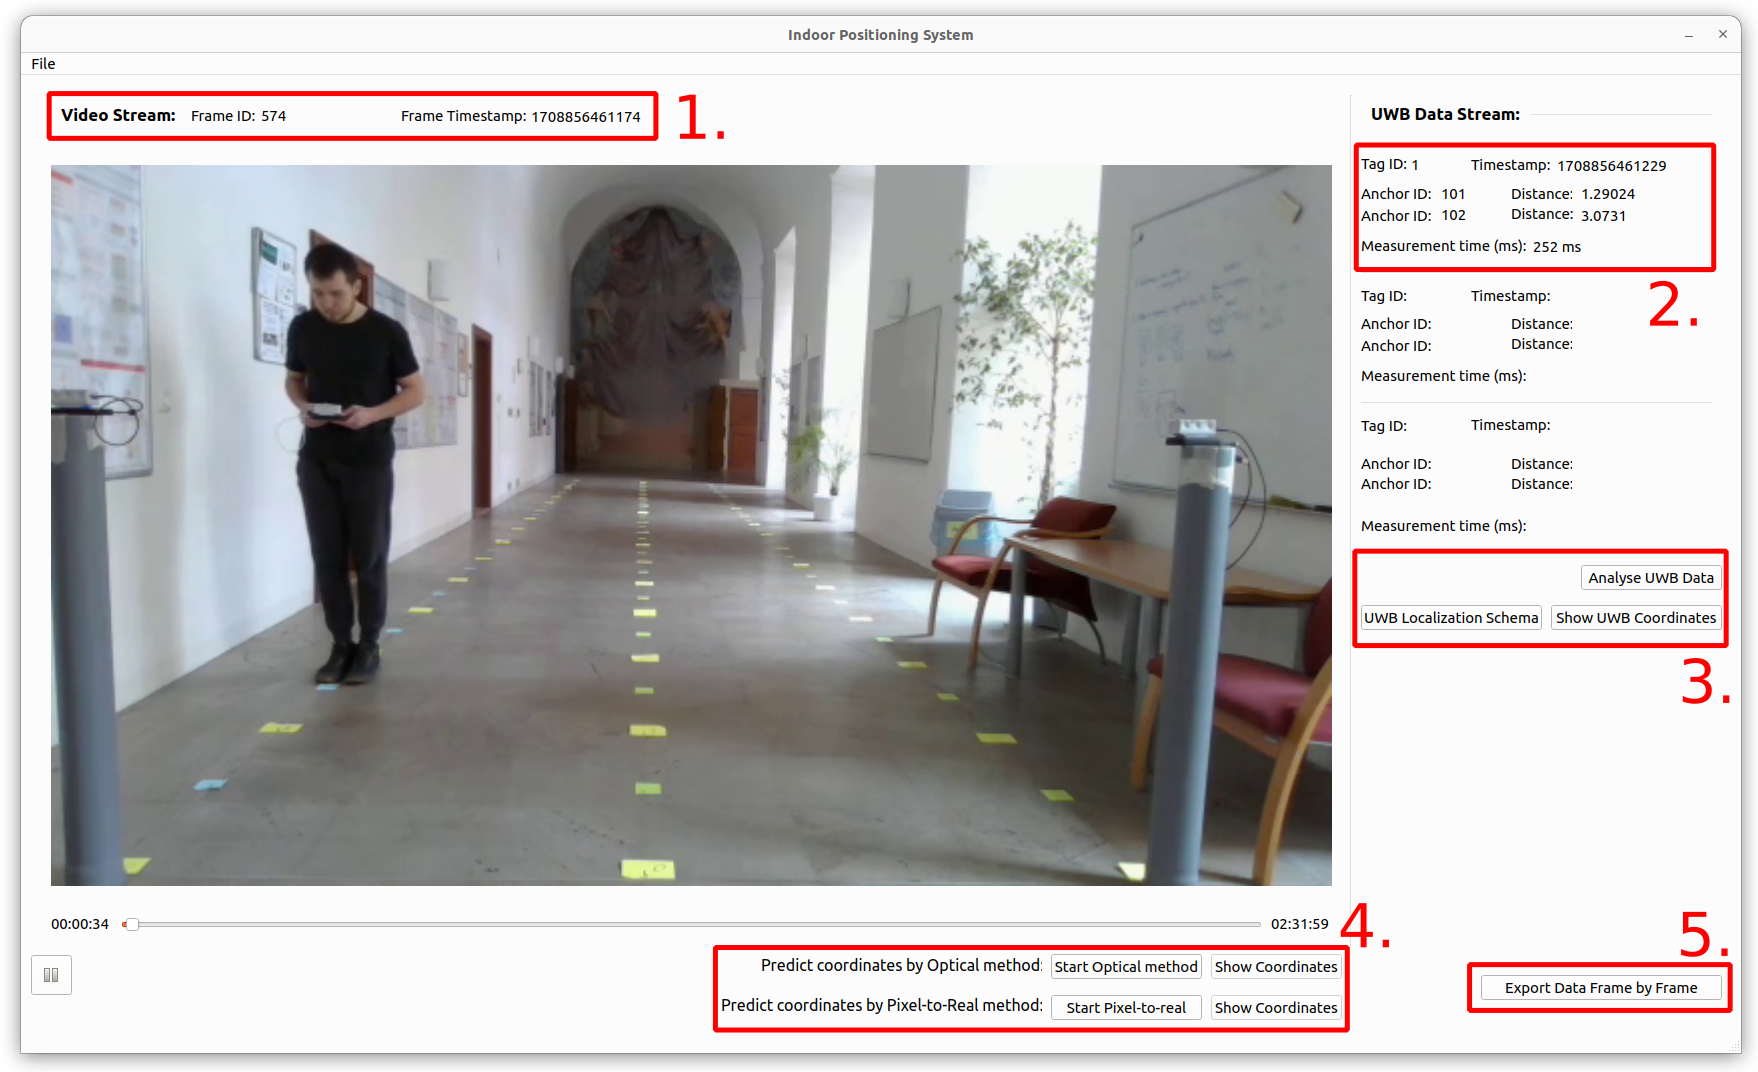
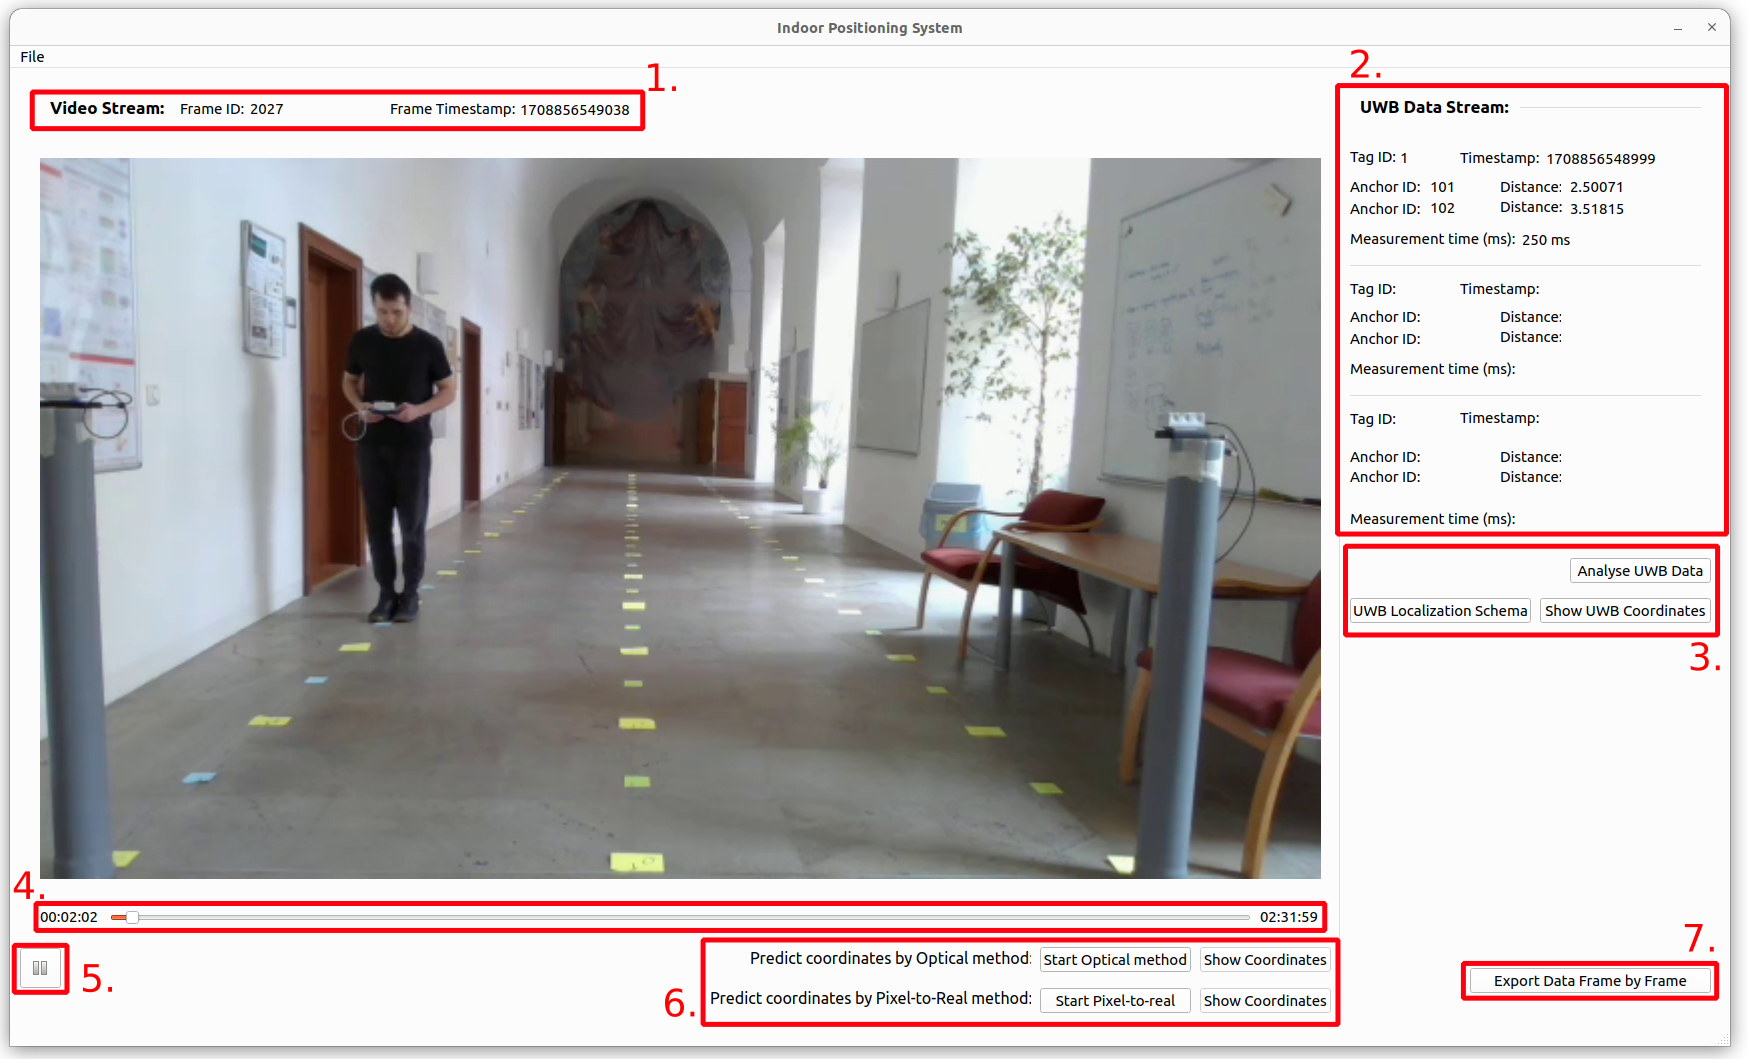
added all features for IPS

diff --git a/Wiki/Indoor-Positioning-System-(GUI).md b/Wiki/Indoor-Positioning-System-(GUI).md
@@ -95,9 +95,23 @@ To install the Main GUI application, follow these steps:
 - **Area 1**: represents the stream of video data, consisting of Frame ID and its timestamp
 - **Area 2**: represents the UWB data stream. Both Video and UWB streams are synchronized using the closest timestamps.
 - **Area 3**: dedicated to the UWB data. It allows for correcting the data by analyzing them and showing the estimated UWB coordinates.
-- **Area 4**: intended to run Pixel-to-Real and Optical methods and show their results.
-- **Area 5**: responsible for exporting the data. Note that this export process is very time-consuming. There is another option to export the data, which can be performed in the Data Analysis window.
+- **Area 4**: allows to navigate through the video; seek frame
+- **Area 5**: play / pause data stream
+- **Area 6**: intended to run Pixel-to-Real and Optical methods and show their results.
+- **Area 7**: responsible for exporting the data. Note that this export process is very time-consuming. There is another option to export the data, which can be performed in the Data Analysis window.
 ---
+
+### Show UWB coordinates
+
+- Coordinate window is shown automatically, once video and UWB data are loaded
+
+![UWB coordinates window](https://github.com/Razyapoo/Thesis-Documentation/blob/master/Archive/Documentation/Images%20for%20wiki/uwb_coordinates_window.png)
+
+- Top-down view (Localization schema)
+
+![UWB localization schema](https://github.com/Razyapoo/Thesis-Documentation/blob/master/Archive/Documentation/Images%20for%20wiki/uwb_localization_schema.png)
+
+   - Schema allows to **hover the mouse over the shapes** to see their coordinates!
 
 ### How to analyze UWB data (for its correction)
 
@@ -127,7 +141,7 @@ Common case:
 
 ![Anchor selection](https://github.com/Razyapoo/Thesis-Documentation/blob/master/Archive/Documentation/Images%20for%20wiki/data_analysis_anchor_selection.png)
 
-**NOTE:** in the current example, there will be only 1 tag and 2 anchors to choose from
+**NOTE:** In the current example, there will be only 1 tag and 2 anchors to choose from. In general, there can be more tags and anchors to choose from.
 
 - Tag
 
@@ -140,6 +154,11 @@ Common case:
 3. Split the dataset using rolling window (for standard rolling deviation)
 
 ![STD Rolling deviation](https://github.com/Razyapoo/Thesis-Documentation/blob/master/Archive/Documentation/Images%20for%20wiki/data_analysis_rolling_window.png)
+
+**NOTE:** Diagrams are interactive. Use the following shortcuts:
+   - ctrl + left mouse + "mouse move" - allows to pan a diagram view
+   - ctrl + mouse wheel - allows to zoom in / out a diagram
+   - hovering the mouse over the lines: shows timestamp (in hour:min:sec for better analysis) + UWB measurement recorded at that time  
 
 4. Set a threshold to identify **standing periods**
 
@@ -160,7 +179,7 @@ Common case:
 ![Polynomial regression](https://github.com/Razyapoo/Thesis-Documentation/blob/master/Archive/Documentation/Images%20for%20wiki/data_analysis_calculate_polyn_regres.png)
 
 
-7. Update UWB distances with corrected ones and export them for model training{#segment-export}
+7. Update UWB distances with corrected ones and export them for model training
 <a id="segment-export"></a>
 
 ![Segment representatives export](https://github.com/Razyapoo/Thesis-Documentation/blob/master/Archive/Documentation/Images%20for%20wiki/data_analysis_export.png)
@@ -180,15 +199,15 @@ Common case:
 - **"Load camera intrinsic params":** Select the folder with the intrinsic parameters for the camera. 
 - **"Load human detection model weights":** Select the folder with the weights (both .weights and .cfg together as a single package) for the human detection model. 
 
+**NOTE:** "Load human detection model weights" can be loaded only from "File" in the top menu. For safety reasons.
+
 2. Directly by running the methods. It will show pop-up window and require to load configuration files.
 
+![Run P2R and Opt methods](https://github.com/Razyapoo/Thesis-Documentation/blob/master/Archive/Documentation/Images%20for%20wiki/run_opt_p2r_methods.png)
 
+   - this will to start people detection and show dedicated windows with coordinates for each method
 
-### Show coordinates estimated by each method
-
-- Coordinate windows
-
-- Top-down view (Localization schema)
+    ![Run P2R and Opt methods result](https://github.com/Razyapoo/Thesis-Documentation/blob/master/Archive/Documentation/Images%20for%20wiki/rum_methods_result.png)
 
 ### Export coordinates
 
@@ -198,4 +217,4 @@ Common case:
 - The export can be performed by two ways:
   1. Frame-by-Frame: exports all frames within the defined time range.
 
-  2. Segment representatives: viz [segment export](#segment-export)\
+  2. Segment representatives: viz [segment export](#segment-export)
